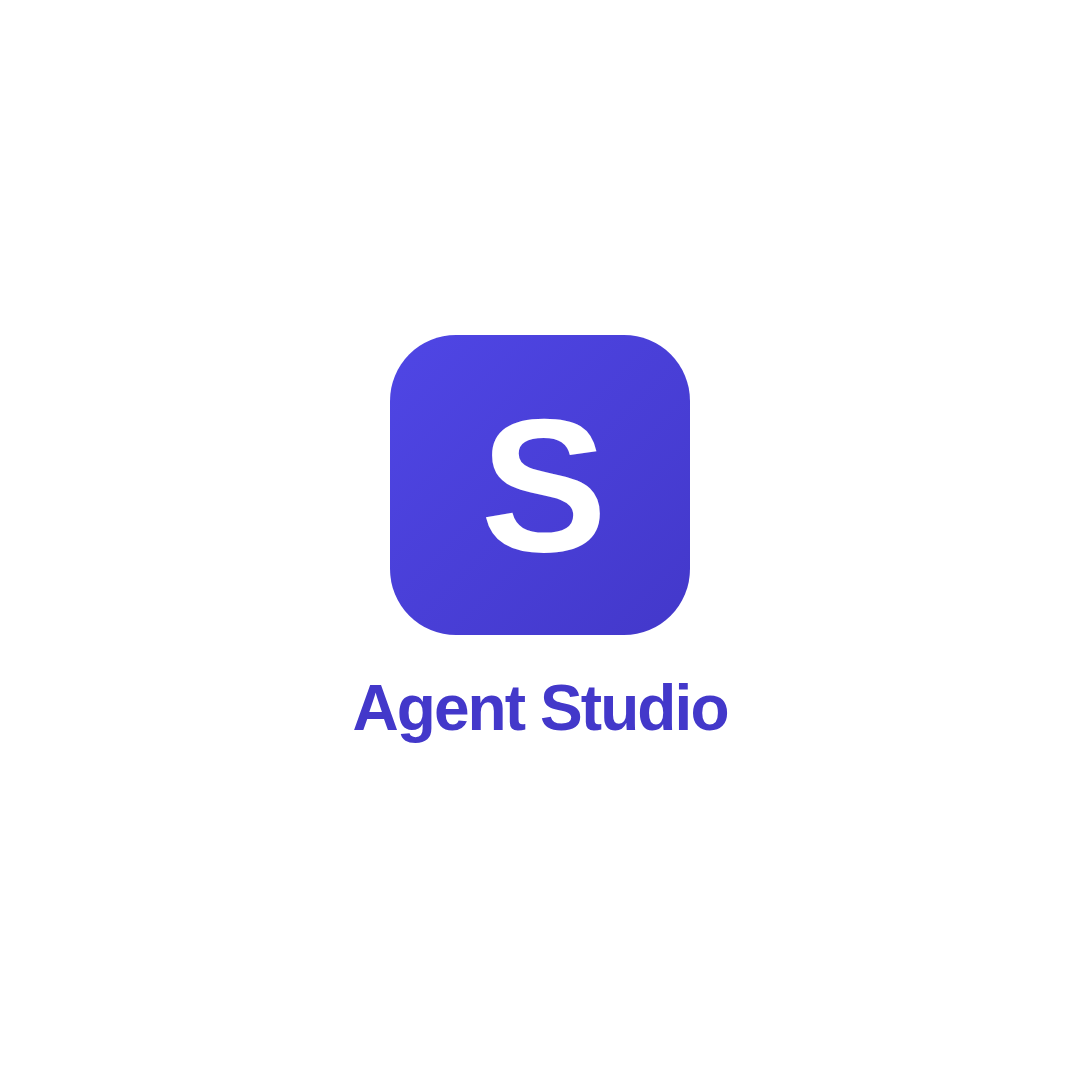
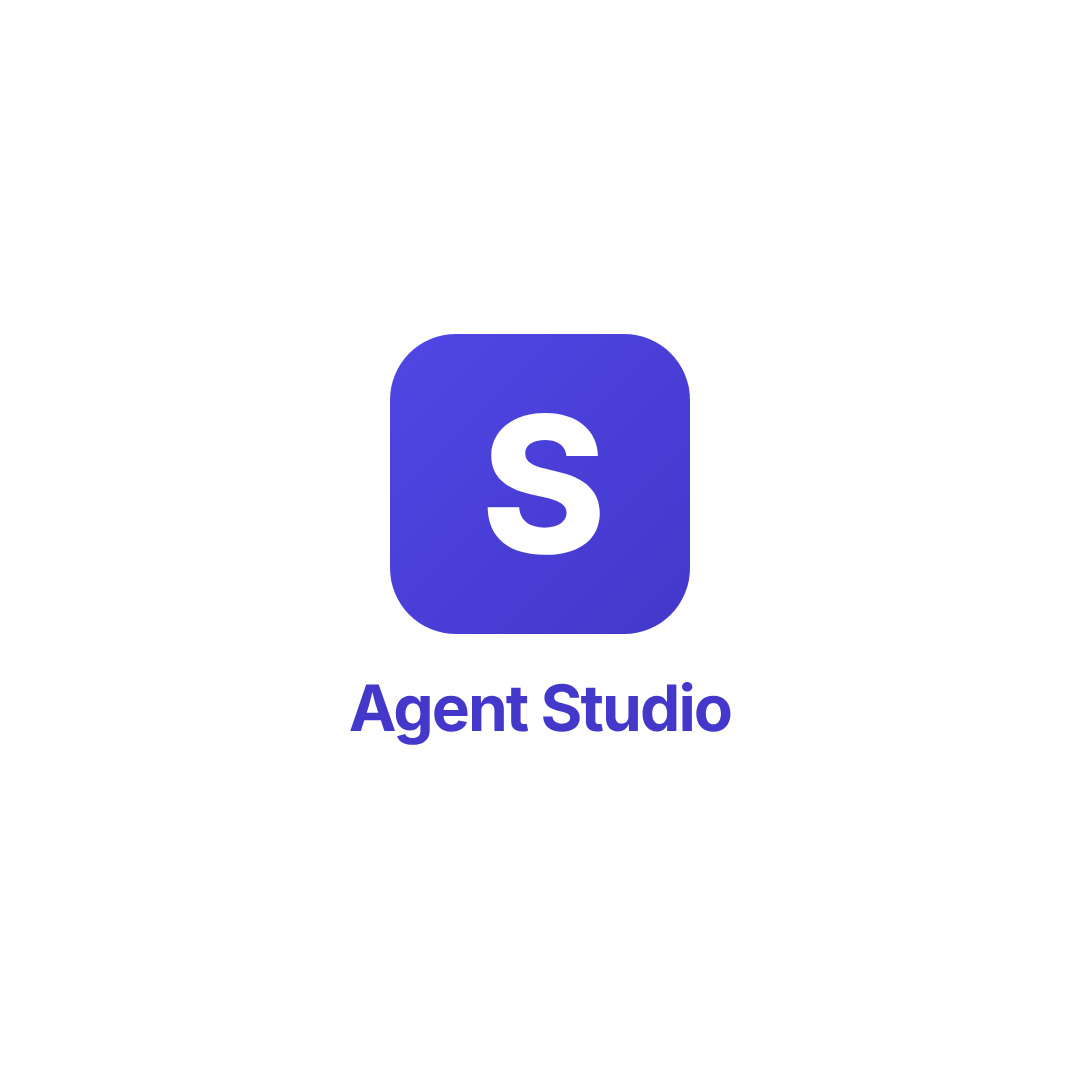
profile: bring every claim in line with the live counts and seo.suedeai.ai (#9)
The weekly claim guard had failed on main since 2026-09-28: the live
count is 54 merged pull requests across 46 repositories, and the README
said 50 across 44. The social kit had drifted further (50 in the
LinkedIn headline, 49 on the X founder header) because nothing checked
it.

- Upstream record: adds coreos/ignition#2301 and #2302,
  TurboDocx/html-to-docx#229 and XRPLF/xrpl.js#3430; +3,168 / -704
  lines; 33 substantive + 21 listings; fifteen skills catalogs; kernel
  series v2-v7.
- Aligned with seo.suedeai.ai and suedeai.ai: 30-minute call, West Palm
  Beach, info@suedeai.ai, the teardown / sprint / retainer ladder,
  thirteen press placements across seven outlets, five provisional
  patent applications, seven current books (The Signal Chain sold
  direct and incorporating The Guitar Without a Number), proof of
  creation at suedeai.ai/proof-of-creation.
- Social kit: bios corrected, character counts re-measured, images
  re-rendered in Inter.
- Guard: audits the social kit alongside the README, regenerates and
  diffs the image sources, and checks each PNG was rendered from its
  current source via images/rendered-from.json.

Claude-Session: https://claude.ai/code/session_019FkZ8KzBvhznp6XGikUqPa

diff --git a/social/images-src/x-header-founder.html b/social/images-src/x-header-founder.html
@@ -45,6 +45,6 @@
     <div class="mark" style="width:150px;height:150px;font-size:93px">S</div>
     <div class="text"><div class="kicker">Jason Colapietro · Founder, Suede AI</div><h1>I ship the fixes AI answers are built from.</h1>
       <div class="lede">Full-stack GEO, AEO and SEO with AI architecture integration, delivered as pull requests with a source diff.</div>
-      <div class="chips"><span class="chip">Full-stack GEO / AEO / SEO</span><span class="chip">AI architecture & integration</span><span class="chip">49 upstream PRs merged</span><span class="chip">Five books</span></div>
+      <div class="chips"><span class="chip">Full-stack GEO / AEO / SEO</span><span class="chip">AI architecture & integration</span><span class="chip">54 upstream PRs merged</span><span class="chip">Seven books</span></div>
     </div>
   </div><div class="url">seo.suedeai.ai</div></div></body></html>

diff --git a/profile/README.md b/profile/README.md
@@ -2,15 +2,15 @@
 
 **Full-stack GEO, AEO and SEO with AI architecture integration — founder of [Suede AI](https://seo.suedeai.ai)**  
 I make companies the answer when ChatGPT, Perplexity, Gemini and Google’s AI results get asked about their category, then wire AI into the operation behind the answer.  
-Jupiter / West Palm Beach, Florida · [Book a 15-minute call](https://calendar.app.google/8FyvYAspZaQFFP5eA) · [(561) 401-0518](tel:+15614010518)
+West Palm Beach, Florida · [Book a 30-minute call](https://calendar.app.google/8FyvYAspZaQFFP5eA) · [(561) 401-0518](tel:+15614010518)
 
 [![Free AI Citation Check](https://img.shields.io/badge/free-AI%20citation%20check-ff6f00?style=for-the-badge&logo=perplexity&logoColor=white)](https://seo.suedeai.ai/ai-citation-check)
 [![Google Cloud](https://img.shields.io/badge/Google%20Cloud%20partner-Vertex%20AI-4285F4?style=for-the-badge&logo=googlecloud&logoColor=white)](https://seo.suedeai.ai)
 [![Contributions](https://img.shields.io/badge/contributions%20since%20May-12%2C280-181717?style=for-the-badge&logo=git&logoColor=white)](https://github.com/JasonColapietro)
-[![Upstream merged](https://img.shields.io/badge/upstream%20merged-50%20PRs%20%2F%2044%20repos-2ea44f?style=for-the-badge&logo=github&logoColor=white)](#selected-upstream-contributions)
+[![Upstream merged](https://img.shields.io/badge/upstream%20merged-54%20PRs%20%2F%2046%20repos-2ea44f?style=for-the-badge&logo=github&logoColor=white)](#selected-upstream-contributions)
 [![Open-source skills](https://img.shields.io/badge/open--source%20skills-76-8A2BE2?style=for-the-badge&logo=anthropic&logoColor=white)](#skill-catalogs--awesome-lists)
-[![Patent](https://img.shields.io/badge/USPTO-63%2F947%2C120%20pending-0A66C2?style=for-the-badge)](https://suedeai.ai)
-[![Book a call](https://img.shields.io/badge/book%20a%2015--min%20call-open%20calendar-1a7f37?style=for-the-badge&logo=googlecalendar&logoColor=white)](https://calendar.app.google/8FyvYAspZaQFFP5eA)
+[![Patents](https://img.shields.io/badge/USPTO-5%20provisional%20applications-0A66C2?style=for-the-badge)](https://suedeai.ai)
+[![Book a call](https://img.shields.io/badge/book%20a%2030--min%20call-open%20calendar-1a7f37?style=for-the-badge&logo=googlecalendar&logoColor=white)](https://calendar.app.google/8FyvYAspZaQFFP5eA)
 
 <p align="left">
   <img height="165" src="https://github-readme-stats.vercel.app/api?username=JasonColapietro&show_icons=true&include_all_commits=true&count_private=true&hide_border=true&theme=github_dark&custom_title=Jason%20Colapietro%20%E2%80%94%2012%2C280%20contributions" alt="GitHub stats" />
@@ -29,21 +29,21 @@ What separates this from the rest of the category is that I ship the fixes. Most
 
 | | |
 |---|---|
-| **Free** | [AI Citation Check](https://seo.suedeai.ai/ai-citation-check) &mdash; four buyer questions put to real engines, and which sites they cited instead of you |
-| **Then** | A 30-day answer-share sprint at a fixed fee, measured before and after on a prompt set you approve |
-| **Then** | Managed agents on a monthly retainer, reported against the same prompts |
+| **Free** | The teardown, back within three business days: your answer share, the buyer prompts where an engine named someone else, and a prioritized fix list. Or run the self-serve [AI Citation Check](https://seo.suedeai.ai/ai-citation-check) first |
+| **Then** | A fixed-fee 30-day answer-share sprint, quoted case by case, measured before and after on a prompt set you approve |
+| **Then** | Compound: a monthly SEO and GEO retainer that builds on the sprint, reported against the same prompts |
 
-[Book 15 minutes](https://calendar.app.google/8FyvYAspZaQFFP5eA) &middot; [(561) 401-0518](tel:+15614010518) &middot; [info@suedeai.ai](mailto:info@suedeai.ai)
+[Book 30 minutes](https://calendar.app.google/8FyvYAspZaQFFP5eA) &middot; [(561) 401-0518](tel:+15614010518) &middot; [info@suedeai.ai](mailto:info@suedeai.ai)
 
 ### Eight lanes, one firm
 
 Full-stack GEO &middot; AI architecture and integration &middot; entity records and search &middot; press and reputation &middot; AI operations &middot; managed AI agents in Suede AI Agent Studio &middot; fractional forward-deployed engineer &middot; IP and rights integration
 
-In partnership with Google Cloud since September 2025, running on Vertex AI. Eleven feature placements across Business Insider, TechBullion, Programming Insider, Altcoin Investor and Indie Hackers. Thirty-plus live sites and nine iOS apps shipped and operated.
+In partnership with Google Cloud since September 2025, running on Vertex AI. Thirteen feature placements across seven outlets: Gigawatt Group, MSN, Business Insider, TechBullion, Programming Insider, Altcoin Investor and Indie Hackers. Thirty-plus live sites and nine iOS apps shipped and operated.
 
 ---
 
-I came to this sideways. Two decades chasing guitar tone taught me the signal chain, pickups through amp to speaker, where every link either passes the signal or eats it. Answer engines work the same way. So does the royalty chain, which is why I also built the [Suede AI](https://suedeai.ai) product side: proof of authorship, programmable licensing and payment rails for creators, USPTO patent filed. Five books along the way.
+I came to this sideways. Two decades chasing guitar tone taught me the signal chain, pickups through amp to speaker, where every link either passes the signal or eats it. Answer engines work the same way. So does the royalty chain, which is why I also built the [Suede AI](https://suedeai.ai) product side: proof of authorship, programmable licensing and payment rails for creators, five USPTO provisional patent applications filed. Seven books along the way, five of them on Amazon.
 
 ---
 
@@ -68,12 +68,16 @@ Accepted into codebases I don't own. Every link goes to the merged pull request.
 | [**Solana Pay Kit**](https://github.com/solana-foundation/pay-kit/pull/299) *(73★)* | Modernize Pay Kit protocol references | +265 / −335 |
 | [**coreos/ignition**](https://github.com/coreos/ignition/pull/2303) *(974★)* | Restore Butane config coverage in the docs checker, 3 files | +126 / −32 |
 | [**coreos/ignition**](https://github.com/coreos/ignition/pull/2326) *(974★)* | Drop the duplicate Butane docs check | +1 / −31 |
+| [**coreos/ignition**](https://github.com/coreos/ignition/pull/2301) *(974★)* | Drop the caller's supplementary groups when switching to a target user, 3 files | +125 / −1 |
+| [**coreos/ignition**](https://github.com/coreos/ignition/pull/2302) *(974★)* | File append and overwrite examples in the Butane docs | +48 / −0 |
 | [**elizaOS**](https://github.com/elizaOS/eliza/pull/25122) *(19.4k★)* | Bound Discord IPC frame payload length | +13 / −0 |
 
 ### Also merged
 
 | Project | Contribution |
 |---|---|
+| [html-to-docx](https://github.com/TurboDocx/html-to-docx/pull/229) | Render a `<table>` nested inside a list item instead of dropping it, 4 files |
+| [xrpl.js](https://github.com/XRPLF/xrpl.js/pull/3430) | Use the network base fee for VaultCreate autofill |
 | [nautobot](https://github.com/nautobot/nautobot/pull/9359) | Correct Celery queues flag in docs |
 | [prometheus/docs](https://github.com/prometheus/docs/pull/3053) | Update TSDB storage comparison |
 | [avoid-ai-writing](https://github.com/conorbronsdon/avoid-ai-writing/pull/106) | Docs correction |
@@ -87,22 +91,21 @@ Accepted into codebases I don't own. Every link goes to the merged pull request.
 | [xupersplit](https://github.com/kanylbullen/xupersplit/pull/86) | Escape legal page apostrophes |
 | [backcheck](https://github.com/VectorInstitute/backcheck/pull/12) | Vector Institute — validation fix |
 | [Ledger_c](https://github.com/Din-es/Ledger_c/pull/11) | C ledger work, 6 files |
-| [buildwithclaude](https://github.com/davepoon/buildwithclaude/pull/305) | Add the suede-skills plugin |
 | [awesome-ai-tools](https://github.com/aliammari1/awesome-ai-tools/pull/60) | Catalog listing *(Suede-AI account)* |
 | [awesome-ai-tools](https://github.com/pingan8787/awesome-ai-tools/pull/103) | Catalog listing *(Suede-AI account)* |
 | [awesome-ai-tools](https://github.com/eudk/awesome-ai-tools/pull/210) | Catalog listing *(Suede-AI account)* |
 
-Plus a USB/IP patch series submitted upstream to the Linux kernel ([v2–v6 on lore.kernel.org](https://lore.kernel.org/linux-usb/)).
+Plus a USB/IP patch series submitted upstream to the Linux kernel ([v2–v7 on lore.kernel.org](https://lore.kernel.org/linux-usb/)).
 
-**Totals:** 50 merged pull requests across 44 repositories I do not maintain, 8 of them 5,000+ stars · **+2,668 / −688** lines changed upstream on the substantive work listed above.
+**Totals:** 54 merged pull requests across 46 repositories I do not maintain, 8 of them 5,000+ stars · **+3,168 / −704** lines changed upstream on the substantive work listed above.
 
-That 50 counts the verified `JasonColapietro` and `Suede-AI` accounts together, and splits into **29 substantive code or documentation contributions** and **21 accepted listings** of my own work on catalog repositories. The Linux kernel USB/IP series is under review at v7, not merged, and is not counted in the 50.
+That 54 counts the verified `JasonColapietro` and `Suede-AI` accounts together, and splits into **33 substantive code or documentation contributions** and **21 accepted listings** of my own work on catalog repositories. The Linux kernel USB/IP series is under review at v7, not merged, and is not counted in the 54.
 
 ---
 
 ## Skill catalogs & awesome lists
 
-[Suede Creator Skills](https://skills.suedeai.ai) — 76 open-source agent skills for Claude Code and Codex — has been reviewed and merged into fourteen independent catalogs I don't maintain. Every link is the merged pull request.
+[Suede Creator Skills](https://skills.suedeai.ai) — 76 open-source agent skills for Claude Code and Codex — has been reviewed and merged into fifteen independent catalogs I don't maintain. Every link is the merged pull request.
 
 | Catalog | Merged |
 |---|---|
@@ -119,6 +122,7 @@ That 50 counts the verified `JasonColapietro` and `Suede-AI` accounts together, 
 | [hashgraph-online/awesome-ai-plugins](https://github.com/hashgraph-online/awesome-ai-plugins) | [#148](https://github.com/hashgraph-online/awesome-ai-plugins/pull/148) |
 | [yzfly/awesome-skills-zh](https://github.com/yzfly/awesome-skills-zh) | [#14](https://github.com/yzfly/awesome-skills-zh/pull/14) |
 | [ichangyou/awesome-codex](https://github.com/ichangyou/awesome-codex) | [#2](https://github.com/ichangyou/awesome-codex/pull/2) |
+| [davepoon/buildwithclaude](https://github.com/davepoon/buildwithclaude) | [#305](https://github.com/davepoon/buildwithclaude/pull/305) |
 | [ichangyou/awesome-claude-code](https://github.com/ichangyou/awesome-claude-code) | [#9](https://github.com/ichangyou/awesome-claude-code/pull/9) |
 
 Suede AI Agent Studio is also listed in [xpaysh/awesome-x402](https://github.com/xpaysh/awesome-x402/pull/518), and `@suedeai/plugin-suede` in the [elizaOS plugin registry](https://github.com/elizaOS/eliza/pull/19210).
@@ -127,11 +131,13 @@ Suede AI Agent Studio is also listed in [xpaysh/awesome-x402](https://github.com
 
 ### Books
 
-**[The Signal Chain](https://guitar.solutions)** — 3 editions: Standard, Deluxe, Workbook  
-The full history of guitar amplifiers, effects, and the pursuit of electric tone. Free.
+Seven current books: five on Amazon and two published independently.
 
-**[The Guitar Without a Number](https://www.amazon.com/dp/B0GD5FX6N6)** — Kindle  
-Memoir-driven instruction for the self-taught player: modes, voice leading, 13 artist songbooks, gear, and the music IP rights chapter no other guitar book includes.
+**[The Screenshot](https://seo.suedeai.ai/book)** — free, [source on GitHub](https://github.com/JasonColapietro/suede-geo-book)  
+Why AI recommends your competitors, and how to fix it. The full method behind the GEO practice, in eleven chapters.
+
+**[The Signal Chain](https://guitar.solutions)** — 3 editions: Standard, Deluxe, Workbook  
+The full history of guitar amplifiers, effects, and the pursuit of electric tone, sold direct. It now incorporates the earlier [*The Guitar Without a Number*](https://strumly.suedeai.ai/book/catalog), memoir-driven instruction for the self-taught player.
 
 **[Suede Labs: The Human Authenticity Layer](https://www.amazon.com/dp/B0GD5FX6N6)** — Kindle  
 The thesis document for programmable IP infrastructure in the AI media era.
@@ -141,6 +147,12 @@ How to build systems that hold up when nobody trusts anybody: proof baked in, no
 
 **[Stake Your Claim](https://www.amazon.com/dp/B0GRG8LGQQ)** — Kindle  
 Hard truths about turning the AI era into a real asset for creators.
+
+**[The Claude Code Bible](https://www.amazon.com/dp/B0HHTMJWB4)** — Kindle  
+The operator's manual for running Claude Code and AI coding agents as real infrastructure rather than a demo.
+
+**[Codex in Production](https://www.amazon.com/dp/B0HHTF3LG1)** — Kindle  
+Running OpenAI Codex in production: AGENTS.md, worktrees, skills, security, and agent work that outlives a single session.
 
 ---
 
@@ -158,11 +170,11 @@ Read the method: [What is GEO and AEO?](https://seo.suedeai.ai/what-is-geo) · [
 
 **[Suede AI](https://suedeai.ai)** — the product side: creator ownership infrastructure for the AI media era.
 
-- Proof of creation and cryptographic media registration, USPTO 63/947,120 filed
+- Proof of creation and cryptographic media registration, USPTO provisional 63/947,120 filed, one of five provisional applications
 - Programmable IP licensing and royalty routing on Base/USDC and Solana
 - x402 micropayment layer: AI agents buy licenses autonomously, value flows to creators at the moment of use
 
-Live: [IP Registry](https://ip.suedeai.ai) · [Suede AI Agent Studio](https://agents.suedeai.ai) · [GEO/AEO](https://seo.suedeai.ai)
+Live: [Proof of creation](https://suedeai.ai/proof-of-creation) · [Suede AI Agent Studio](https://agents.suedeai.ai) · [GEO/AEO](https://seo.suedeai.ai)
 
 I write it up weekly at **[jasoncolapietro.substack.com](https://jasoncolapietro.substack.com)** — AI search visibility, what the engines are actually citing, and the work done in public.
 
@@ -188,10 +200,10 @@ I write it up weekly at **[jasoncolapietro.substack.com](https://jasoncolapietro
 
 ### Connect
 
-**Book a call** · [15 minutes, pick a time](https://calendar.app.google/8FyvYAspZaQFFP5eA)  
+**Book a call** · [30 minutes, pick a time](https://calendar.app.google/8FyvYAspZaQFFP5eA)  
 **Phone** · [(561) 401-0518](tel:+15614010518)  
-**Email** · [johnny@suedeai.ai](mailto:johnny@suedeai.ai) · press: [press@suedeai.ai](mailto:press@suedeai.ai)  
-**Based in** · Jupiter / West Palm Beach, Florida
+**Email** · [info@suedeai.ai](mailto:info@suedeai.ai) · press: [press@suedeai.ai](mailto:press@suedeai.ai)  
+**Based in** · West Palm Beach, Florida
 
 | Where | Link |
 |---|---|

diff --git a/social/PROFILES.md b/social/PROFILES.md
@@ -22,19 +22,19 @@ Character counts are given so each field pastes without truncation.
 
 ## X — @AISUEDE (brand)
 
-**Name** (39/50)
+**Name** (37/50)
 
 ```
 Suede AI | GEO, SEO & AI Architecture
 ```
 
-**Bio** (159/160)
+**Bio** (157/160)
 
 ```
 Full-stack GEO, AEO & SEO with AI architecture integration. Managed AI agents in Suede AI Agent Studio. Google Cloud partner. By @Johnnysuede. seo.suedeai.ai
 ```
 
-**Location**: `Jupiter / West Palm Beach, FL`
+**Location**: `West Palm Beach, FL`
 **Website**: `https://seo.suedeai.ai`
 **Header**: `images/x-header-brand.png` (1500×500)
 **Avatar**: `images/avatar-brand.png` (1200×1200, indigo field, white S mark)
@@ -55,19 +55,19 @@ Receipts, dated: seo.suedeai.ai/evidence
 
 ## X — @Johnnysuede (founder)
 
-**Name** (32/50)
+**Name** (27/50)
 
 ```
 Jason Colapietro | Suede AI
 ```
 
-**Bio** (158/160)
+**Bio** (153/160)
 
 ```
-Founder, Suede AI. Full-stack GEO, AEO & SEO with AI architecture integration. I ship fixes as PRs. Google Cloud partner. 5 books. Jupiter, FL. seo.suedeai.ai
+Founder, Suede AI. Full-stack GEO, AEO & SEO with AI architecture integration. I ship fixes as PRs. Google Cloud partner. West Palm Beach. seo.suedeai.ai
 ```
 
-**Location**: `Jupiter / West Palm Beach, FL`
+**Location**: `West Palm Beach, FL`
 **Website**: `https://seo.suedeai.ai`
 **Header**: `images/x-header-founder.png` (1500×500)
 **Avatar**: keep the current photo. `images/avatar-founder.png` is the wordmark fallback.
@@ -76,13 +76,13 @@ Founder, Suede AI. Full-stack GEO, AEO & SEO with AI architecture integration. I
 
 ## Instagram — @suedeai
 
-**Name** (28/30)
+**Name** (27/30)
 
 ```
 Suede AI | SEO & AI Systems
 ```
 
-**Bio** (148/150, four lines)
+**Bio** (138/150, four lines)
 
 ```
 Full-stack GEO, AEO & SEO
@@ -148,7 +148,7 @@ Suede AI, founded by Jason Colapietro. Full-stack GEO, AEO and SEO: we measure w
 Suede AI
 ```
 
-**Tagline** (118/120)
+**Tagline** (111/120)
 
 ```
 Full-stack GEO, AEO & SEO with AI architecture integration. Managed AI agents. Google Cloud partner since 2025.
@@ -169,7 +169,7 @@ Integrate. AI architecture for the business behind the pages: workflow automatio
 
 Receipts. Everything is published, dated and re-measured against the same prompts.
 
-In partnership with Google Cloud since September 2025, running on Vertex AI. Founded by Jason Colapietro, Jupiter / West Palm Beach, Florida.
+In partnership with Google Cloud since September 2025, running on Vertex AI. Founded by Jason Colapietro, West Palm Beach, Florida.
 
 Start with the free AI Citation Check: https://seo.suedeai.ai/ai-citation-check
 ```
@@ -186,10 +186,10 @@ Start with the free AI Citation Check: https://seo.suedeai.ai/ai-citation-check
 
 Jason edits this one himself. Copy to paste:
 
-**Headline** (191/220)
+**Headline** (195/220)
 
 ```
-Founder, Suede AI · Full-stack GEO, AEO & SEO with AI architecture integration · Managed AI agents in Suede AI Agent Studio · Google Cloud partner · 50 upstream PRs merged · Author of five books
+Founder, Suede AI · Full-stack GEO, AEO & SEO with AI architecture integration · Managed AI agents in Suede AI Agent Studio · Google Cloud partner · 54 upstream PRs merged · Author of seven books
 ```
 
 **Cover**: `images/li-cover-founder.png` (1584×396)
@@ -198,19 +198,19 @@ Founder, Suede AI · Full-stack GEO, AEO & SEO with AI architecture integration 
 
 ## GitHub
 
-**Organization `Suede-AI`** — display name `Suede AI`, bio (156/160):
+**Organization `Suede-AI`** — display name `Suede AI`, bio (154/160):
 
 ```
 Full-stack GEO, AEO & SEO with AI architecture integration. Managed AI agents in Suede AI Agent Studio. Google Cloud partner. Founded by Jason Colapietro.
 ```
 
-Location `Jupiter / West Palm Beach, FL`, website `https://seo.suedeai.ai`. The org profile README
+Location `West Palm Beach, FL`, website `https://seo.suedeai.ai`. The org profile README
 in this repository (`profile/README.md`) already carries the full positioning.
 
-**User `JasonColapietro`** — bio (158/160):
+**User `JasonColapietro`** — bio (159/160):
 
 ```
-Founder, Suede AI. Full-stack GEO, AEO & SEO with AI architecture integration. I ship the fixes as PRs. Google Cloud partner. Five books. Jupiter, FL.
+Founder, Suede AI. Full-stack GEO, AEO & SEO with AI architecture integration. I ship the fixes as PRs. Google Cloud partner. Seven books. West Palm Beach, FL.
 ```
 
 ---
@@ -218,7 +218,7 @@ Founder, Suede AI. Full-stack GEO, AEO & SEO with AI architecture integration. I
 ## Telegram — t.me/suedeai
 
 **Title**: `Suede AI`
-**Description** (231/255):
+**Description** (218/255):
 
 ```
 Suede AI. Full-stack GEO, AEO & SEO with AI architecture integration, managed AI agents in Suede AI Agent Studio, and creator ownership rails. Google Cloud partner. Founded by Jason Colapietro. Services: seo.suedeai.ai
@@ -237,7 +237,7 @@ Suede AI makes companies the answer when ChatGPT, Perplexity, Gemini and Google'
 
 Full-stack GEO, AEO and SEO, shipped as pull requests with a source diff. AI architecture and integration. Managed AI agents you can watch running live in Suede AI Agent Studio. A fractional forward-deployed engineer for operations that need triage.
 
-In partnership with Google Cloud since September 2025. Founded by Jason Colapietro, Jupiter / West Palm Beach, Florida.
+In partnership with Google Cloud since September 2025. Founded by Jason Colapietro, West Palm Beach, Florida.
 
 Free AI Citation Check: https://seo.suedeai.ai/ai-citation-check
 Services: https://seo.suedeai.ai
@@ -275,3 +275,9 @@ AI search visibility, AI architecture and the work Suede AI does in public, week
   2026-09-14 with "Suede Labs AI" naming and no Agent Studio mention; both are superseded by
   the copy above. X banners live since 2026-08-28 use the navy/ivory institutional set and
   are superseded by the indigo Agent Studio set in `images/`.
+- 2026-10-11: counts and contact facts brought into line with seo.suedeai.ai and the live
+  guard: 54 upstream PRs (was 50 in the LinkedIn headline, 49 on the X founder header),
+  seven books (five on Amazon, two independent), and West Palm Beach, FL as the location, matching the
+  practice's schema address. Character counts re-measured; the X founder bio drops its book
+  count to stay under 160. All images re-rendered in Inter, the first installed face in the
+  font stack. The PR count in this kit is now checked by `scripts/check-profile-claims.mjs`.
